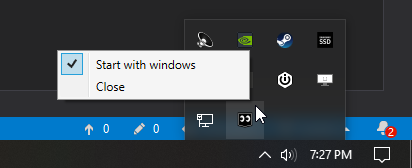
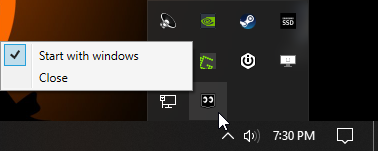
Fixed typo

diff --git a/src/Lurker.UI/Views/ShellView.xaml b/src/Lurker.UI/Views/ShellView.xaml
@@ -18,7 +18,7 @@
                     PopupActivation="DoubleClick">
             <tb:TaskbarIcon.ContextMenu>
                 <ContextMenu>
-                    <MenuItem IsChecked="{Binding StartWithWindows}" Header="Start with windows" cal:Message.Attach="[Event Click] = [Action CreateShortCut]"/>
+                    <MenuItem IsChecked="{Binding StartWithWindows}" Header="Start with Windows" cal:Message.Attach="[Event Click] = [Action CreateShortCut]"/>
                     <MenuItem Header="Close" cal:Message.Attach="[Event Click] = [Action Close]"/>
                 </ContextMenu>
             </tb:TaskbarIcon.ContextMenu>
